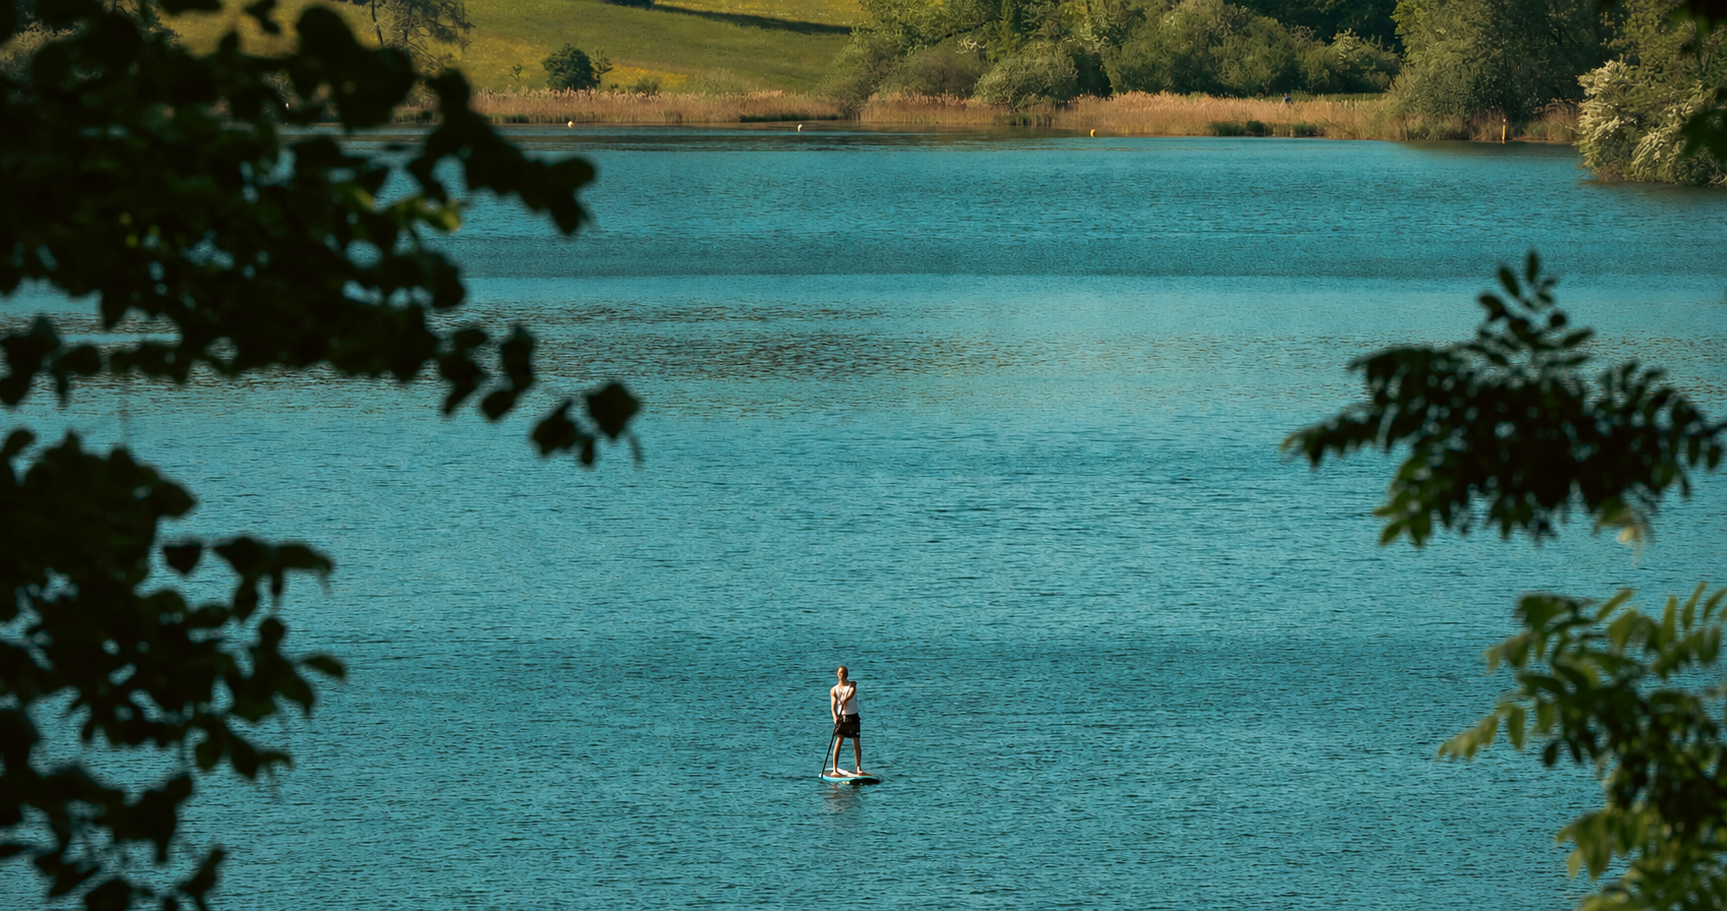
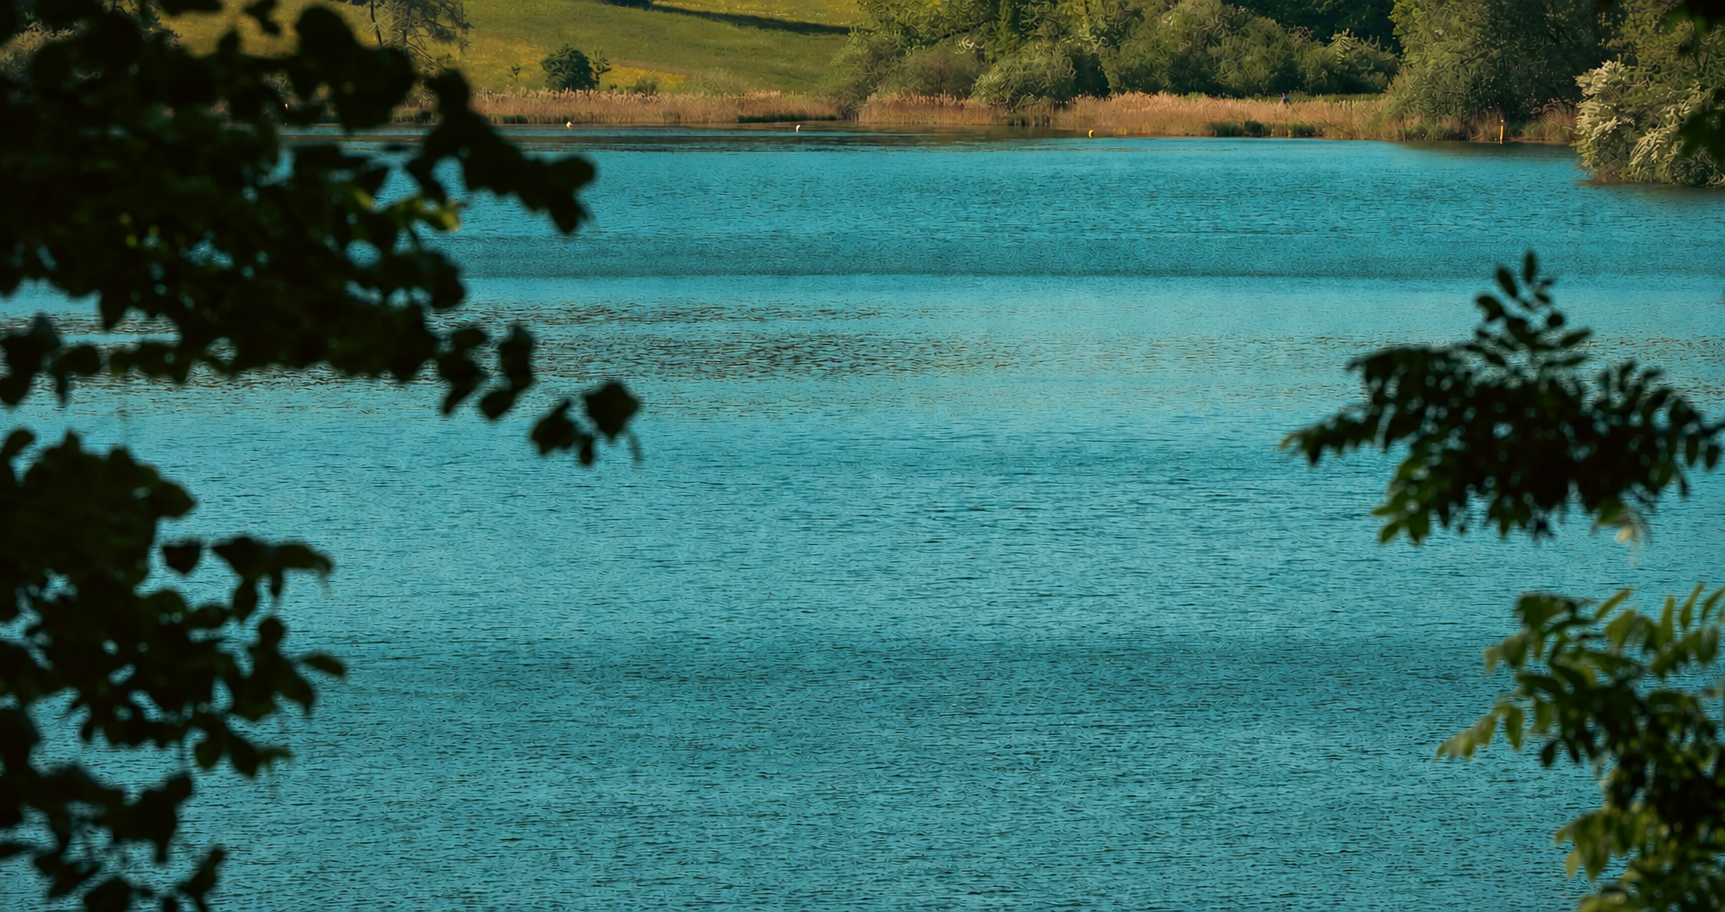
cambios

diff --git a/components/Navbar.tsx b/components/Navbar.tsx
@@ -50,7 +50,7 @@ export default function Navbar() {
         <div style={{ display: 'flex', alignItems: 'center', gap: 40 }}>
           <div className="hr-nav-links" style={{ display: 'flex', alignItems: 'center', gap: 32 }}>
             {links.map(l => (
-              <Link key={l.href} href={l.href} style={{
+              <Link key={l.href} href={l.href} className="hr-nav-link" style={{
                 fontFamily: 'var(--font)', fontSize: 14, fontWeight: 400,
                 color: textColor, opacity: pathname === l.href ? 0.6 : 0.95,
               }}>{l.label}</Link>
@@ -58,7 +58,7 @@ export default function Navbar() {
           </div>
 
           <span className="hr-nav-cta">
-            <ArrowButton href="/contacto" variant={dark ? 'dark' : 'light'} split>Contacto</ArrowButton>
+            <ArrowButton href="/contacto" variant={dark ? 'dark' : 'white'} split compact>Contacto</ArrowButton>
           </span>
 
           <button onClick={() => setMenuOpen(!menuOpen)}
@@ -89,6 +89,11 @@ export default function Navbar() {
       </div>
 
       <style>{`
+        .hr-nav-link { transition: text-shadow 0.25s ease, opacity 0.25s ease; }
+        .hr-nav-link:hover {
+          text-shadow: -0.4px 0 currentColor, 0.4px 0 currentColor, 0 -0.4px currentColor, 0 0.4px currentColor;
+          opacity: 1 !important;
+        }
         @media (max-width: 900px) {
           .hr-nav { padding: 12px 20px !important; }
           .hr-nav-links { display: none !important; }

diff --git a/components/ArrowButton.tsx b/components/ArrowButton.tsx
@@ -12,16 +12,17 @@ interface Props {
   fontSize?: number;
   split?: boolean;
   external?: boolean;
+  compact?: boolean;
 }
 
-export default function ArrowButton({ href, onClick, children, variant = 'dark', type = 'button', noArrow = false, fontSize, split = false, external = false }: Props) {
+export default function ArrowButton({ href, onClick, children, variant = 'dark', type = 'button', noArrow = false, fontSize, split = false, external = false, compact = false }: Props) {
   if (split) {
-    const className = `hr-abtn hr-abtn--${variant}`;
+    const className = `hr-abtn hr-abtn--${variant}${compact ? ' hr-abtn--compact' : ''}`;
     const content = (
       <>
-        <span className="hr-abtn-label" style={{ fontSize: fontSize ?? 14 }}>{children}</span>
+        <span className="hr-abtn-label" style={{ fontSize: fontSize ?? (compact ? 13 : 14) }}>{children}</span>
         <span className="hr-abtn-circle">
-          <Image src="/images/home/arrowblack.png" alt="" width={12} height={12} />
+          <Image src="/images/home/arrowblack.png" alt="" width={compact ? 10 : 12} height={compact ? 10 : 12} />
         </span>
       </>
     );

diff --git a/app/page.tsx b/app/page.tsx
@@ -130,7 +130,7 @@ export default function Home() {
         <div style={{ position: 'relative', height: '100%', display: 'flex', alignItems: 'center', justifyContent: 'center', padding: '0 24px' }}>
           <FadeIn>
             <h1 className="hr-hero-title" style={{ fontFamily: 'var(--font)', fontWeight: 600, fontSize: 70, lineHeight: '64px', color: '#fff', textAlign: 'center', maxWidth: 900 }}>
-              Imaginando nuevas formas de vivir.
+              Imaginando nuevas<br />formas de vivir.
             </h1>
           </FadeIn>
         </div>

diff --git a/app/globals.css b/app/globals.css
@@ -85,6 +85,9 @@ input, textarea { font-family: var(--font); }
 .hr-abtn--white:hover .hr-abtn-circle { background: #fff; }
 .hr-abtn--white:hover .hr-abtn-circle img { filter: none; }
 
+.hr-abtn--compact { padding: 3px 3px 3px 18px; gap: 8px; }
+.hr-abtn--compact .hr-abtn-circle { width: 28px; height: 28px; }
+
 /* ArrowButton — plain (bordered, non-split) variant */
 .hr-abtn-plain {
   display: inline-flex; align-items: center; gap: 12px;
